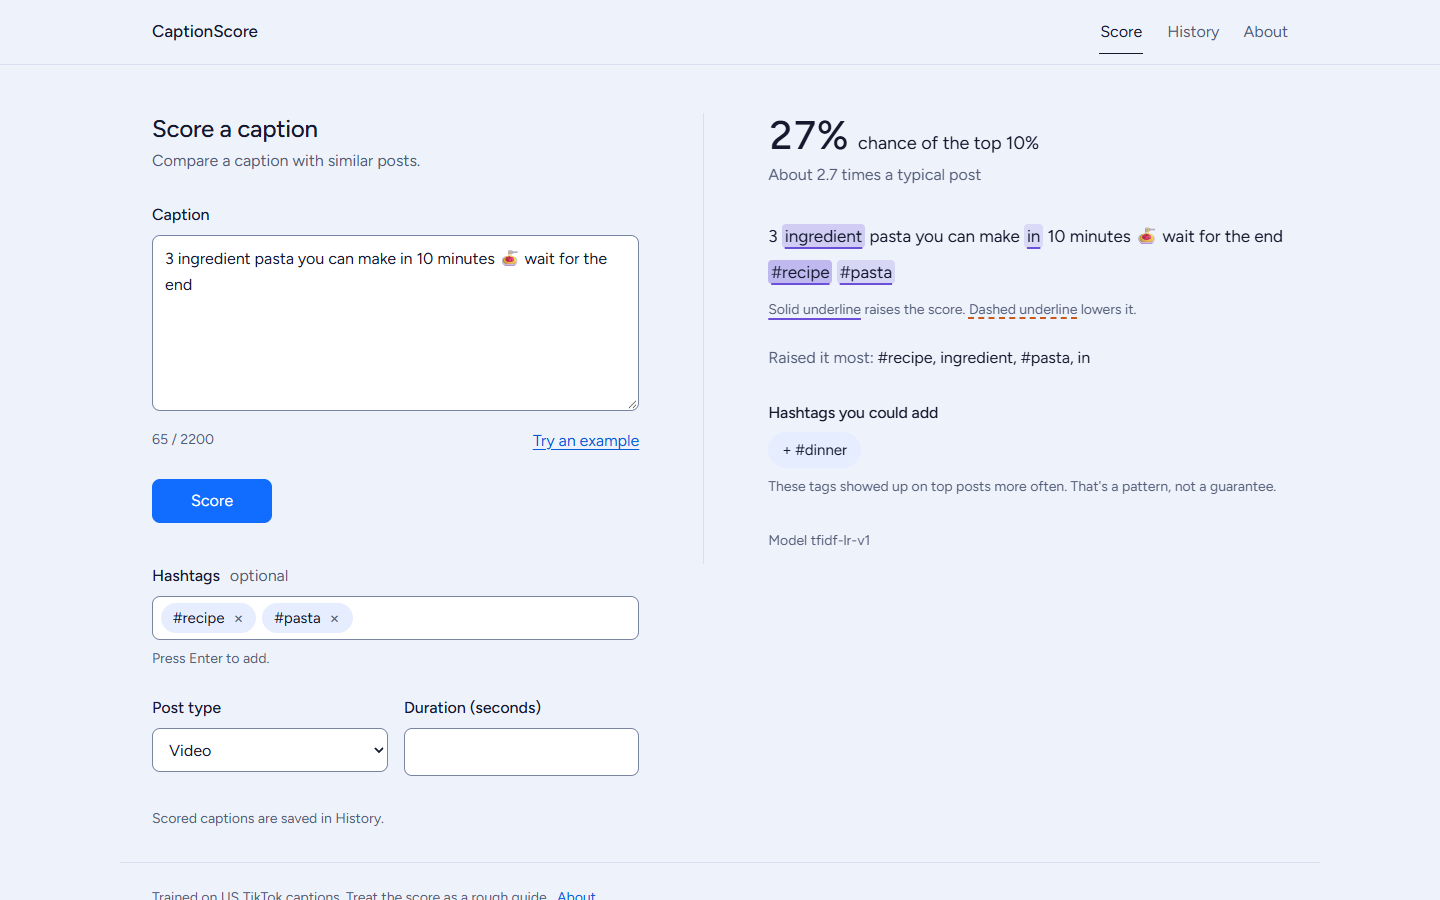
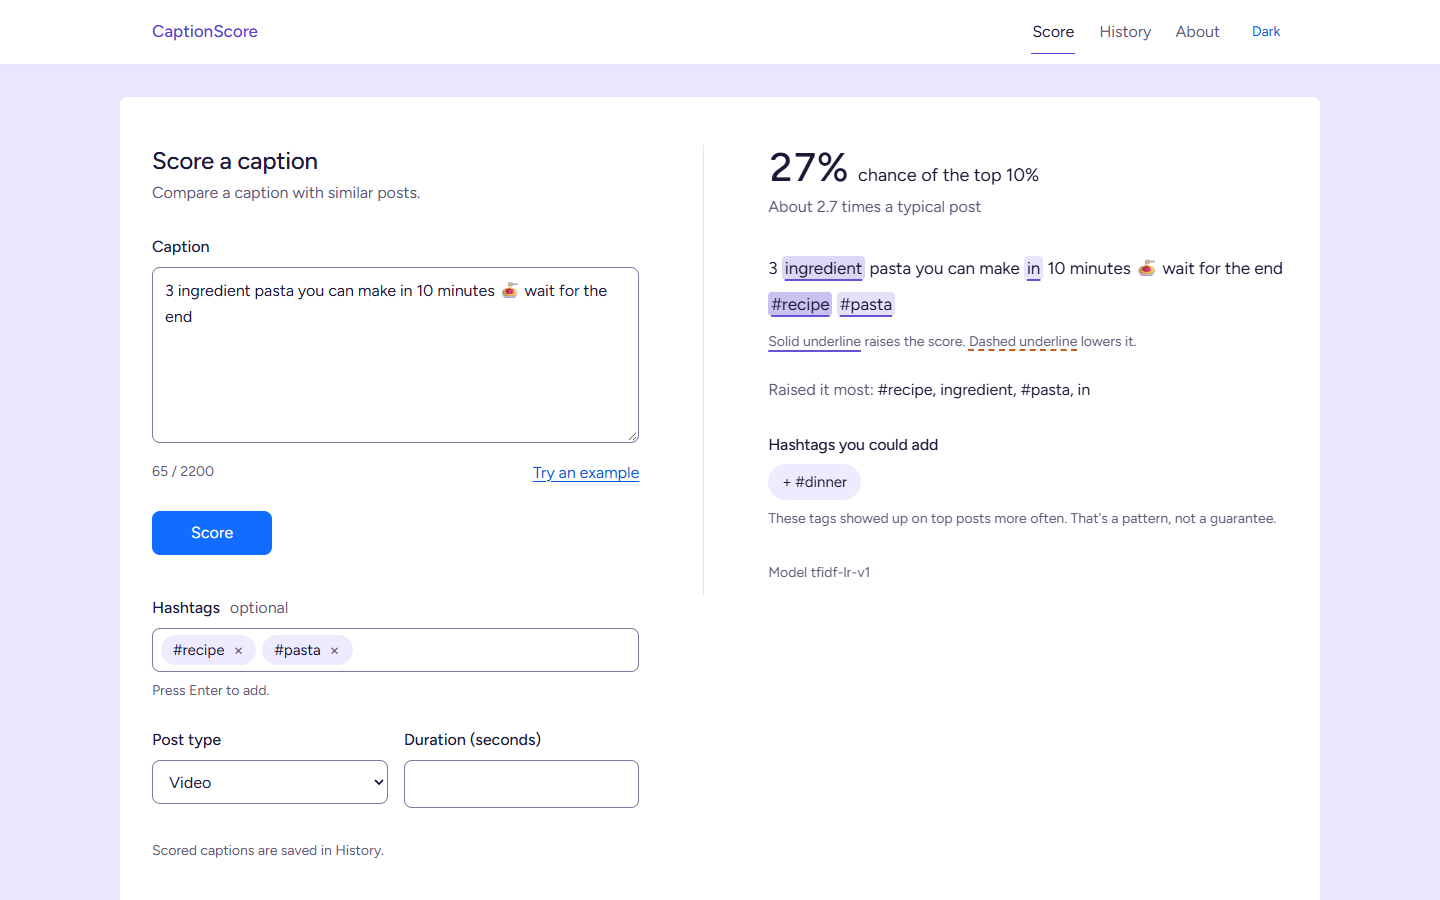
frontend: light purple + white theme by default with a dark toggle (no longer follows system dark mode), blue primary, violet/orange highlights

diff --git a/frontend/src/styles.css b/frontend/src/styles.css
@@ -1,27 +1,29 @@
 /* CaptionScore theme.
 
-   Light is the default; dark follows the system preference with the same roles.
+   Light (default): light purple page, white panel, blue primary, violet/orange highlights
+   (orange is purple's complement). Dark is opt-in via the header toggle
+   (<html data-theme="dark">) and keeps the same roles in a deep violet.
                        light      dark
-     background        #eef2fb    #1b1e21
-     surface (fields)  #ffffff    #23272b
-     ink               #14192e    #e4e7e9
-     muted text        #535d78    #9aa3a8
-     hairline          #d8dfef    #33383d
-     accent (button)   #116dff    #4f7088
-     raises score      #6b4fd8    #5596cc   (solid underline)
-     lowers score      #c95a1c    #c4843e   (dashed underline)
-   Raise/lower differ for colour-blind users (CVD dE > 19) and by underline style.
+     page              #ebe6ff    #16132a
+     panel / fields    #ffffff    #201c38
+     ink               #1b1838    #eceaf8
+     muted text        #5c5777    #a7a2c4
+     hairline          #e6e1f7    #332d52
+     primary button    #116dff    #2f6fe8
+     raises score      #6b4fd8    #8f7bf7   (solid underline)
+     lowers score      #c95a1c    #d9833f   (dashed underline)
+   Raise/lower differ for colour-blind users (CVD dE > 25) and by underline style.
    Every text pair is checked for WCAG AA in src/test/contrast.test.js.
 
    One font (Figtree), one radius (8px; hashtag chips are the only pills), no shadows,
-   gradients or dashed borders. Space and hairlines separate things instead of boxes. */
+   gradients or dashed borders. */
 :root {
-  --bg: #eef2fb;
+  --bg: #ebe6ff;
   --surface: #ffffff;
-  --ink: #14192e;
-  --muted: #535d78;
-  --border: #d8dfef;
-  --control: #7a85a3; /* input outlines: >= 3:1 against bg and surface (WCAG 1.4.11) */
+  --ink: #1b1838;
+  --muted: #5c5777;
+  --border: #e6e1f7;
+  --control: #7f799e; /* input outlines: >= 3:1 against panel and page (WCAG 1.4.11) */
   --accent: #116dff;
   --accent-hover: #0a59d6;
   --accent-ink: #ffffff;
@@ -29,11 +31,12 @@
   --focus: #116dff;
   --raise: #6b4fd8;
   --lower: #c95a1c;
-  --chip-bg: #e6edff;
-  --chip-ink: #14192e;
-  --disabled-bg: #e1e7f3;
-  --disabled-ink: #4b5571;
+  --chip-bg: #efebff;
+  --chip-ink: #1b1838;
+  --disabled-bg: #ece9f7;
+  --disabled-ink: #5a5574;
   --error: #c0322a;
+  --brand: #5b3fd0; /* brand name and current-page underline */
 
   --font: 'Figtree Variable', 'Segoe UI', Helvetica, Arial, sans-serif;
   --radius: 8px;
@@ -41,28 +44,27 @@
   --tap: 44px;
   color-scheme: light;
 }
-@media (prefers-color-scheme: dark) {
-  :root {
-    --bg: #1b1e21;
-    --surface: #23272b;
-    --ink: #e4e7e9;
-    --muted: #9aa3a8;
-    --border: #33383d;
-    --control: #6f787e;
-    --accent: #4f7088;
-    --accent-hover: #46657b;
-    --accent-ink: #ffffff;
-    --link: #9db8cc;
-    --focus: #8fadc2;
-    --raise: #5596cc;
-    --lower: #c4843e;
-    --chip-bg: #2c3136;
-    --chip-ink: #e4e7e9;
-    --disabled-bg: #2c3136;
-    --disabled-ink: #a3abb0;
-    --error: #f0a093;
-    color-scheme: dark;
-  }
+:root[data-theme='dark'] {
+  --bg: #16132a;
+  --surface: #201c38;
+  --ink: #eceaf8;
+  --muted: #a7a2c4;
+  --border: #332d52;
+  --control: #7c76a0;
+  --accent: #2f6fe8;
+  --accent-hover: #2860cc;
+  --accent-ink: #ffffff;
+  --link: #9dbdff;
+  --focus: #8fb2ff;
+  --raise: #8f7bf7;
+  --lower: #d9833f;
+  --chip-bg: #2b2650;
+  --chip-ink: #eceaf8;
+  --disabled-bg: #2b2650;
+  --disabled-ink: #bdb8d8;
+  --error: #ff9a8f;
+  --brand: #b3a4ff;
+  color-scheme: dark;
 }
 
 /* ---------- base ---------- */
@@ -148,7 +150,7 @@ a:focus-visible {
   }
 }
 .site-header {
-  background: var(--bg);
+  background: var(--surface);
   border-bottom: 1px solid var(--border);
   position: sticky;
   top: 0;
@@ -165,7 +167,7 @@ a:focus-visible {
   display: inline-flex;
   align-items: center;
   min-height: var(--tap);
-  color: var(--ink);
+  color: var(--brand);
   font-weight: 500;
   font-size: 1.0625rem;
   text-decoration: none;
@@ -173,9 +175,19 @@ a:focus-visible {
 .brand:hover {
   text-decoration: none;
 }
+.header-right {
+  display: flex;
+  align-items: center;
+  gap: 24px;
+}
 nav {
   display: flex;
   gap: 24px;
+}
+.theme-toggle {
+  font-size: 0.875rem;
+  min-width: var(--tap);
+  justify-content: center;
 }
 nav a {
   display: inline-flex;
@@ -193,16 +205,20 @@ nav a:hover {
 }
 nav a.active {
   color: var(--ink);
-  border-bottom-color: var(--ink);
+  border-bottom-color: var(--brand);
 }
-main {
+main.container {
+  background: var(--surface);
+  border-radius: var(--radius);
+  margin-top: 32px;
+  margin-bottom: 32px;
   padding-top: 48px;
-  padding-bottom: 32px;
+  padding-bottom: 48px;
+  max-width: 1200px;
 }
 .site-footer {
-  padding-top: 24px;
+  padding-top: 0;
   padding-bottom: 40px;
-  border-top: 1px solid var(--border);
 }
 .site-footer a {
   padding: 14px 4px; /* ~44px tap target without changing the line height */
@@ -492,13 +508,13 @@ button.primary:disabled:not([aria-describedby]) {
 }
 /* tint = raise/lower colour mixed into the background; strength capped by MAX_TINT */
 .tok-up {
-  background: color-mix(in srgb, var(--raise) calc(var(--strength, 0) * 100%), var(--bg));
+  background: color-mix(in srgb, var(--raise) calc(var(--strength, 0) * 100%), var(--surface));
   text-decoration: underline solid var(--raise);
   text-decoration-thickness: 1.5px;
   text-underline-offset: 5px;
 }
 .tok-down {
-  background: color-mix(in srgb, var(--lower) calc(var(--strength, 0) * 100%), var(--bg));
+  background: color-mix(in srgb, var(--lower) calc(var(--strength, 0) * 100%), var(--surface));
   text-decoration: underline dashed var(--lower);
   text-decoration-thickness: 1.5px;
   text-underline-offset: 5px;
@@ -608,8 +624,11 @@ button.primary:disabled:not([aria-describedby]) {
 
 /* ---------- small screens ---------- */
 @media (max-width: 600px) {
-  main {
-    padding-top: 32px;
+  main.container {
+    margin: 12px 8px;
+    width: auto;
+    padding-top: 28px;
+    padding-bottom: 32px;
   }
   nav {
     gap: 18px;

diff --git a/frontend/src/test/contrast.test.js b/frontend/src/test/contrast.test.js
@@ -17,10 +17,8 @@ function tokens(block) {
   return out;
 }
 
-const light = tokens(
-  css.slice(css.indexOf(':root {'), css.indexOf('@media (prefers-color-scheme: dark)')),
-);
-const darkStart = css.indexOf('@media (prefers-color-scheme: dark)');
+const light = tokens(css.slice(css.indexOf(':root {'), css.indexOf(":root[data-theme='dark']")));
+const darkStart = css.indexOf(":root[data-theme='dark']");
 const dark = {
   ...light,
   ...tokens(css.slice(darkStart, css.indexOf('color-scheme: dark', darkStart))),
@@ -55,7 +53,7 @@ const TEXT = [
   ['ink', 'bg'],
   ['ink', 'surface'],
   ['muted', 'bg'], // helper text, counter, empty line, placeholder on the page
-  ['muted', 'surface'], // placeholder inside fields
+  ['muted', 'surface'], // helper text and placeholders on the white panel
   ['link', 'bg'], // links and text buttons
   ['link', 'surface'],
   ['accent-ink', 'accent'], // primary button
@@ -63,10 +61,13 @@ const TEXT = [
   ['chip-ink', 'chip-bg'], // hashtag chips
   ['ink', 'chip-bg'],
   ['disabled-ink', 'disabled-bg'], // primary button while blocked
-  ['error', 'bg'], // error lines
+  ['error', 'surface'], // error lines (on the panel)
+  ['error', 'bg'],
+  ['brand', 'surface'], // brand name in the white header
 ];
 const NON_TEXT = [
   ['control', 'bg'], // input outlines (WCAG 1.4.11)
+  ['accent', 'surface'], // primary button against the panel
   ['control', 'surface'],
   ['focus', 'bg'], // keyboard focus ring
   ['focus', 'surface'],
@@ -97,6 +98,6 @@ describe.each([
   });
 
   it.each(['raise', 'lower'])('text on the strongest %s highlight >= 4.5:1', (dir) => {
-    expect(contrast(t.ink, mix(t[dir], t.bg, MAX_TINT))).toBeGreaterThanOrEqual(4.5);
+    expect(contrast(t.ink, mix(t[dir], t.surface, MAX_TINT))).toBeGreaterThanOrEqual(4.5);
   });
 });

diff --git a/frontend/src/App.jsx b/frontend/src/App.jsx
@@ -1,8 +1,28 @@
+import { useState } from 'react';
 import { NavLink, Route, Routes } from 'react-router-dom';
 
 import AboutPage from './pages/AboutPage.jsx';
 import HistoryPage from './pages/HistoryPage.jsx';
 import ScorePage from './pages/ScorePage.jsx';
+import { getTheme, setTheme } from './theme.js';
+
+function ThemeToggle() {
+  const [theme, setState] = useState(getTheme);
+  const next = theme === 'dark' ? 'light' : 'dark';
+  return (
+    <button
+      type="button"
+      className="text-button theme-toggle"
+      aria-label={`Switch to ${next} mode`}
+      onClick={() => {
+        setTheme(next);
+        setState(next);
+      }}
+    >
+      {next === 'dark' ? 'Dark' : 'Light'}
+    </button>
+  );
+}
 
 export default function App() {
   return (
@@ -12,13 +32,16 @@ export default function App() {
           <NavLink to="/" className="brand">
             CaptionScore
           </NavLink>
-          <nav aria-label="Main">
-            <NavLink to="/" end>
-              Score
-            </NavLink>
-            <NavLink to="/history">History</NavLink>
-            <NavLink to="/about">About</NavLink>
-          </nav>
+          <div className="header-right">
+            <nav aria-label="Main">
+              <NavLink to="/" end>
+                Score
+              </NavLink>
+              <NavLink to="/history">History</NavLink>
+              <NavLink to="/about">About</NavLink>
+            </nav>
+            <ThemeToggle />
+          </div>
         </div>
       </header>
       <main className="container">

diff --git a/frontend/src/test/app.test.jsx b/frontend/src/test/app.test.jsx
@@ -340,3 +340,15 @@ describe('api.request', () => {
     expect(err.details).toEqual([{ field: 'caption', message: 'bad' }]);
   });
 });
+
+describe('theme toggle', () => {
+  it('defaults to light and switches to dark and back', async () => {
+    document.documentElement.dataset.theme = 'light';
+    const user = userEvent.setup();
+    renderApp();
+    await user.click(screen.getByRole('button', { name: 'Switch to dark mode' }));
+    expect(document.documentElement.dataset.theme).toBe('dark');
+    await user.click(screen.getByRole('button', { name: 'Switch to light mode' }));
+    expect(document.documentElement.dataset.theme).toBe('light');
+  });
+});

diff --git a/frontend/src/theme.js b/frontend/src/theme.js
@@ -1,0 +1,16 @@
+// Light is the default. The visitor's choice is remembered in localStorage when available;
+// if storage is blocked (private mode, strict settings) the page simply stays light.
+const KEY = 'captionscore-theme';
+
+export function getTheme() {
+  return document.documentElement.dataset.theme === 'dark' ? 'dark' : 'light';
+}
+
+export function setTheme(theme) {
+  document.documentElement.dataset.theme = theme;
+  try {
+    localStorage.setItem(KEY, theme);
+  } catch {
+    /* storage unavailable: the choice lasts for this page view only */
+  }
+}

diff --git a/frontend/index.html b/frontend/index.html
@@ -9,6 +9,15 @@
     />
     <link rel="icon" type="image/svg+xml" href="/favicon.svg" />
     <title>CaptionScore</title>
+    <script>
+      // Apply the saved theme before first paint (light unless the visitor chose dark).
+      try {
+        document.documentElement.dataset.theme =
+          localStorage.getItem('captionscore-theme') === 'dark' ? 'dark' : 'light';
+      } catch (e) {
+        document.documentElement.dataset.theme = 'light';
+      }
+    </script>
   </head>
   <body>
     <div id="root"></div>
